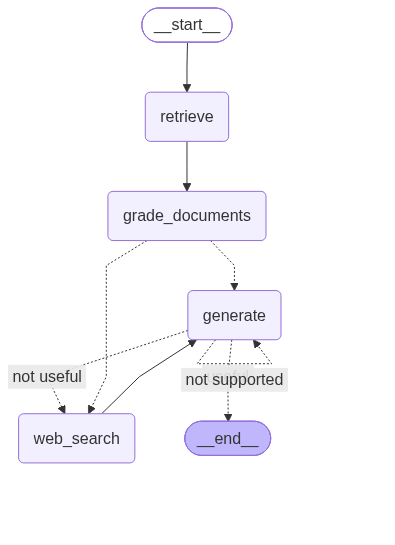
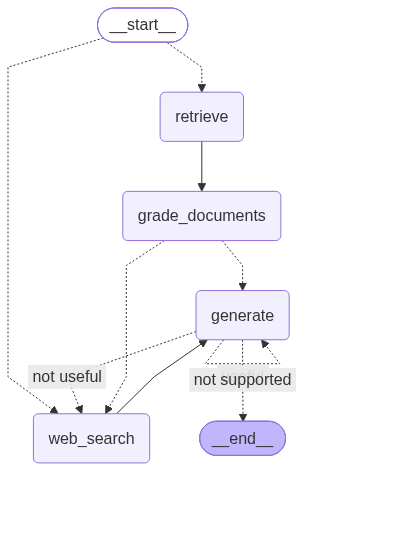
Adaptive RAG Added

diff --git a/graph/graph.py b/graph/graph.py
@@ -12,6 +12,7 @@ from graph.nodes import retrieve, grade_documents, generate, web_search         
 from graph.state import GraphState           # To define the state of the graph.
 from graph.chains.answer_grader import answer_grader            # To use the answer grader chain to grade the documents.
 from graph.chains.hallucination_grader import hallucinatin_grader            # To use the hallucination grader chain to grade the documents.
+from graph.chains.router import question_router, RouteQuery           # To use the router chain to route the question to the appropriate node.
 
 
 # Define the function that will decide whether to generate an answer or search the web based on the graded documents.
@@ -27,7 +28,7 @@ def decide_to_generate(state):
         return GENERATE
 
 
-#
+# Define the function that will grade the generation for hallucination and whether it answers the question.
 def grade_generation_grounded_in_documents_and_question(state: GraphState) -> str:
     print("---CHECK HALLUCINATION---")
 
@@ -59,6 +60,22 @@ def grade_generation_grounded_in_documents_and_question(state: GraphState) -> st
         return "not supported"
 
 
+#
+def route_question(state: GraphState) -> str:
+    print("---ROUTE QUESTION---")
+    
+    question = state["question"]
+    source: RouteQuery = question_router.invoke({"question": question})           # Invoke the router chain to route the question to the appropriate node.
+        # The result will have either 'vectorstore' or 'web_search' under datasource as we defined the structure in the RouteQuery class.
+
+    if source.datasource == "web_search":
+        print("---ROUTE QUESTION TO WEB SEARCH---")
+        return WEB_SEARCH
+    else:
+        print("---ROUTE QUESTION TO VECTORESTORE---")
+        return RETRIEVE
+
+
 # Create a state graph that will define the flow of our application.
 workflow = StateGraph(GraphState)
 
@@ -67,7 +84,14 @@ workflow.add_node(RETRIEVE, retrieve)           # Add the retrieve node to the g
 workflow.add_node(GRADE_DOCUMENTS, grade_documents)           # Add the grade_documents node to the graph.
 workflow.add_node(GENERATE, generate)           # Add the generate node to the graph.
 workflow.add_node(WEB_SEARCH, web_search)           # Add the web_search node to the graph.
-workflow.set_entry_point(RETRIEVE)           # Set the entry point of the graph to the retrieve node.
+
+workflow.set_conditional_entry_point(
+    route_question,           # The function that will decide which node to enter first based on the question.
+    {
+        WEB_SEARCH: WEB_SEARCH,           # If the question is routed to web search, enter the web_search node.
+        RETRIEVE: RETRIEVE,           # If the question is routed to vectorstore
+    }
+)
 
 
 # Create edges

diff --git a/graph/chains/router.py b/graph/chains/router.py
@@ -1,0 +1,48 @@
+# Here 
+
+
+from typing import Literal
+    # Literal is to specify that a variable can only take on some predefined values.
+    # This is for type checking and validation purposes.
+
+from langchain_core.prompts import ChatPromptTemplate           # To create a prompt template for the LLM.
+from pydantic import BaseModel, Field                           # To create a Pydantic model for the output of the LLM.
+from langchain_google_genai import ChatGoogleGenerativeAI
+
+
+# Initialize the LLM with the specified model and temperature
+MODEL = "gemini-3.5-flash-lite"
+llm = ChatGoogleGenerativeAI(model=MODEL, temperature=0.0)
+
+
+class RouteQuery(BaseModel):
+    """Route a user query to the most relevant data source."""
+
+    datasource: Literal["vectorstore", "web_search"] = Field(
+        ...,            # The ellipsis indicates that this field is required and must be provided.
+        description="Given a user question choose to route it to web search or vectorstore.",
+    )
+
+
+# Create structured output for the LLM
+# Basically we are binding this pydantic class to be called as a function calling the llm.
+structured_llm_router = llm.with_structured_output(RouteQuery)
+
+
+# Define the system message for the LLM
+system = """You are an expert at routing a user question to a vectorstore or web search.
+The vectorstore contains documents related to agents, prompt engineering, and adversarial attacks.
+Use the vectorstore for questions on these topics. For all else, use web-search."""
+
+
+# Create a prompt template for the router
+router_prompt = ChatPromptTemplate.from_messages(
+    [
+        ("system", system),
+        ("human", "User question: {question}"),
+    ]
+)
+
+
+# Create the question_router chain
+question_router = router_prompt | structured_llm_router

diff --git a/graph/chains/tests/test_chains.py b/graph/chains/tests/test_chains.py
@@ -5,6 +5,7 @@ from graph.chains.retrieval_grader import GradeDocuments, retrieval_grader
 from ingestion import retriever
 from graph.chains.generation import generation_chain
 from graph.chains.hallucination_grader import hallucinatin_grader, GradeHallucinations
+from graph.chains.router import question_router, RouteQuery
 
 
 
@@ -92,3 +93,27 @@ def test_hallucination_grader_answer_no() -> None:
     )
 
     assert not res.binary_score
+
+
+
+# --------------------------------------------------------------------------------------------------
+# 6th Test Case: Test the router chain for getting vectorestore as the routing option.
+# --------------------------------------------------------------------------------------------------
+def test_router_to_vectorestore() -> None:
+    question = "agent memory"
+    
+    res: RouteQuery = question_router.invoke({"question": question})           # Invoke the router chain
+
+    assert res.datasource == "vectorestore"           # Assert that the router routes to vectorestore
+
+
+
+# --------------------------------------------------------------------------------------------------
+# 7th Test Case: Test the router chain for getting web_search as the routing option.
+# --------------------------------------------------------------------------------------------------
+def test_router_to_web_search() -> None:
+    question = "How to make a pizza?"
+    
+    res: RouteQuery = question_router.invoke({"question": question})           # Invoke the router chain
+
+    assert res.datasource == "web_search"           # Assert that the router routes to web_search

diff --git a/graph/nodes/web_search.py b/graph/nodes/web_search.py
@@ -19,7 +19,7 @@ web_search_tool = TavilySearch(max_results=3)           # Create an instance of 
 def web_search(state: GraphState) -> Dict[str, Any]:
     print("---WEB SEARCH---")
     question = state["question"]           # Get the question from the current state of the graph.
-    documents = state["documents"]           # Get the documents from the current state of the graph.
+    documents = state["documents"] if "documents" in state else None           # Get the documents from the current state of the graph.
         # Since we are getting the document after checking for relevance, so we should only get relevant documents here.
 
     tavily_results = web_search_tool.invoke({"query": question})["results"]       # Use Tavily to search the web for our question.
@@ -33,6 +33,8 @@ def web_search(state: GraphState) -> Dict[str, Any]:
 
     if documents is not None:
         documents.append(web_results)           # Append the web search results to the existing documents.
+    else:
+        documents = [web_results]           # If there were no existing documents, create a new list with the web search results.
 
     return {"documents": documents, "question": question}           # Update the state with the new documents and the question.
 

diff --git a/graph/chains/answer_grader.py b/graph/chains/answer_grader.py
@@ -1,4 +1,4 @@
-# 
+# Here we create a chain that will check if the answer is addressing the question or not.
 
 
 from langchain_core.prompts import ChatPromptTemplate           # To create a prompt template for the LLM.
